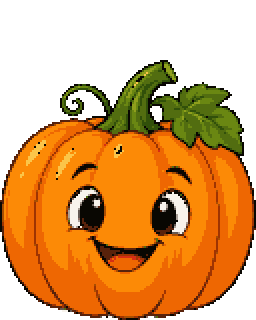
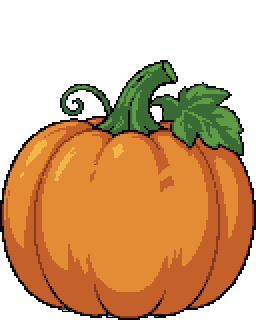
Restore the user's hand-edited pumpkin (no face), lost when I reset it; HAND_EDITED keeps the art scripts off it

diff --git a/tools/art/restyle.py b/tools/art/restyle.py
@@ -14,6 +14,8 @@ import random
 import shutil
 from PIL import Image
 
+from kit import HAND_EDITED
+
 ROOT = os.path.dirname(os.path.dirname(os.path.dirname(os.path.abspath(__file__))))
 SPRITES = os.path.join(ROOT, "factory-td", "Assets", "Sprites")
 SOURCE = os.path.join(ROOT, "tools", "art", "source")
@@ -218,6 +220,8 @@ def main(only=None):
                 continue
             if wanted is not None and os.path.normpath(os.path.join(rel, name)) not in wanted:
                 continue
+            if os.path.join(rel, name).replace(os.sep, "/") in HAND_EDITED:
+                continue  # finished by hand
             src = os.path.join(folder, name)
             dst = os.path.join(SPRITES, rel, name)
             os.makedirs(os.path.dirname(dst), exist_ok=True)

diff --git a/tools/art/kit.py b/tools/art/kit.py
@@ -15,6 +15,8 @@ from PIL import Image, ImageDraw
 
 HERE = os.path.dirname(os.path.abspath(__file__))
 SOURCE = os.path.join(HERE, "source")
+# Sprites the user has finished by hand: no script may write over them (source or game sprite).
+HAND_EDITED = {"Obstacles/pumpkin.png"}
 
 # Rough toy colours (restyle picks the nearest palette colour after muting them).
 RED = (214, 64, 70)

diff --git a/tools/art/garden.py b/tools/art/garden.py
@@ -26,6 +26,8 @@ LEAF = (78, 150, 70)
 
 
 def out(img, rel):
+    if rel in HAND_EDITED:
+        return
     save(img, rel)
     WRITTEN.append(rel)
 

diff --git a/CLAUDE.md b/CLAUDE.md
@@ -131,7 +131,7 @@ Kompakt fabrik, max 3 nivåer i produktionskedjan, matcher 15–25 min.
 - Grafik: `tools/art/restyle.py` gör om alla sprites från `tools/art/source/` (palett + svarta konturer)
   och genererar golvet (stora brädor, 16x8 rutor). Nya sprites läggs i source och skriptet körs
   (`restyle.py <filer>` = bara de). Byggnader och enheter ritas av kod: `tools/art/kit.py` (plastformer, mus på
-  två ben, ark), `tools/art/buildings/*.py`, `tools/art/units/*.py`, `tools/art/logistics/*.py`, `tools/art/garden.py` (gräs, grus, rabatt, växter; en bild i `tools/art/reference/<namn>.png`, t.ex. användarens pumpa och kål, används i stället: bakgrund och skugga klipps bort, halv upplösning med hårda pixlar, 16 platta färger (octree, behåller små ytors färg), restylas; `SOFT` i restyle = lätt dämpad, för det som annars blir brunt); granska med `tools/art/sheet.py`. Under
+  två ben, ark), `tools/art/buildings/*.py`, `tools/art/units/*.py`, `tools/art/logistics/*.py`, `tools/art/garden.py` (gräs, grus, rabatt, växter; en bild i `tools/art/reference/<namn>.png`, t.ex. användarens pumpa och kål, används i stället: bakgrund och skugga klipps bort, halv upplösning med hårda pixlar, 16 platta färger (octree, behåller små ytors färg), restylas; `SOFT` i restyle = lätt dämpad, för det som annars blir brunt; `HAND_EDITED` i `kit.py` = sprites användaren gjort klart för hand (pumpan), skripten skriver aldrig över dem); granska med `tools/art/sheet.py`. Under
   luminans 0,2 blir kontursvart, 2 px-linjer blir helt kontur, ljusa pasteller blir grå (välj mättat); paletten har två rosa för mössens öron, tassar och svansar.
 
 ## Kodstruktur
